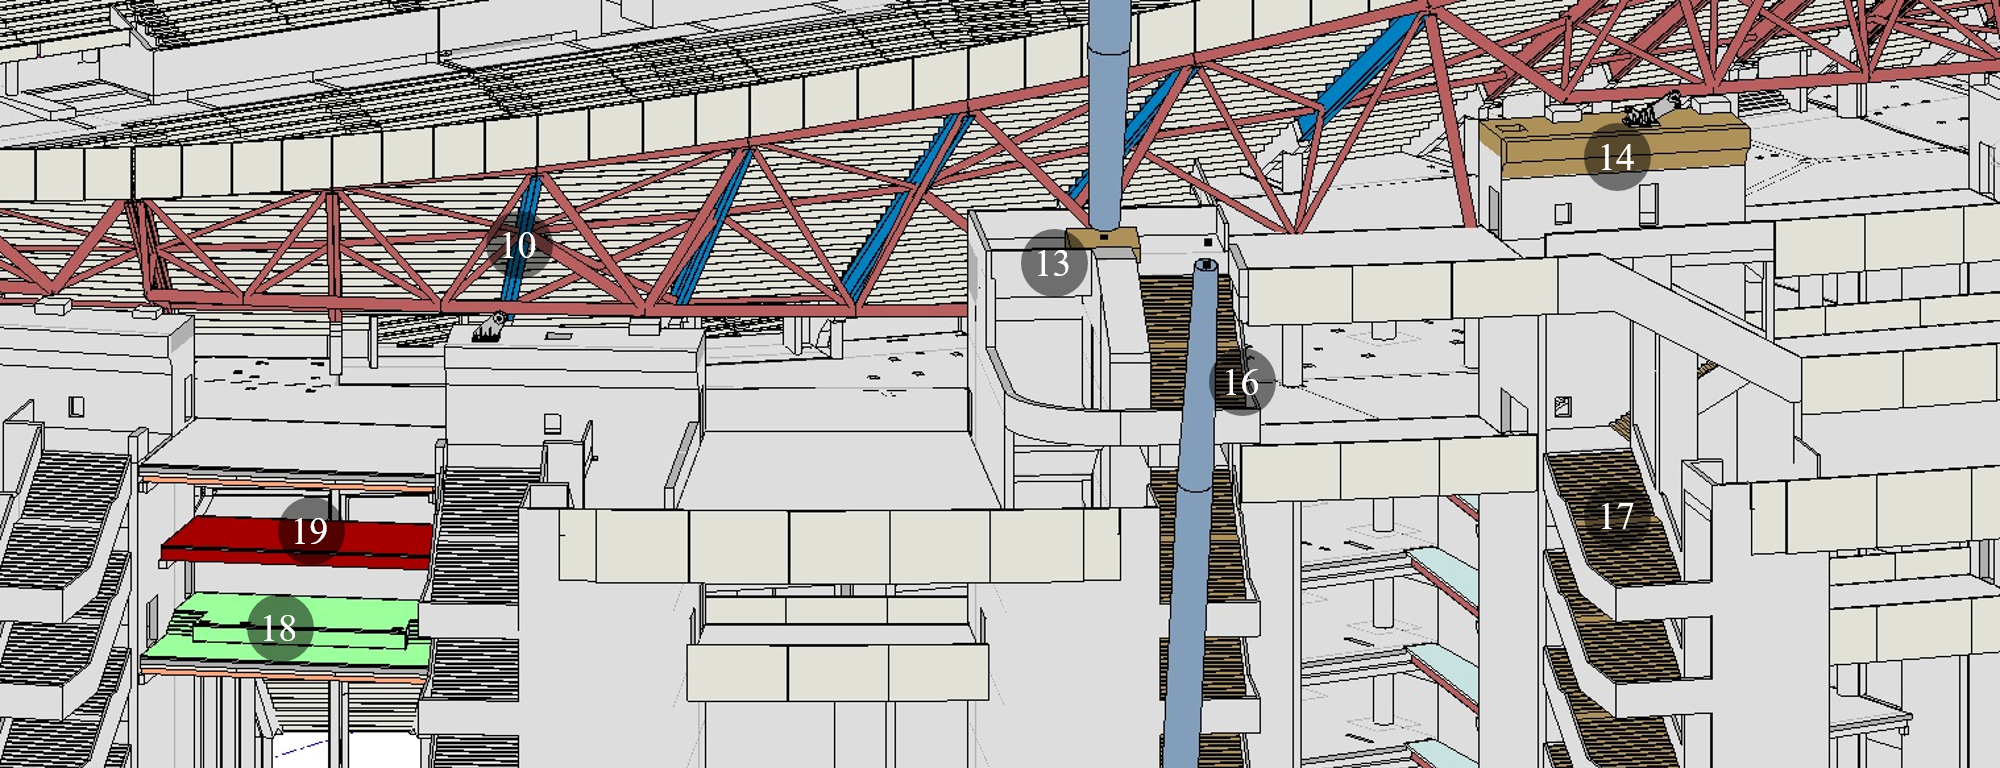
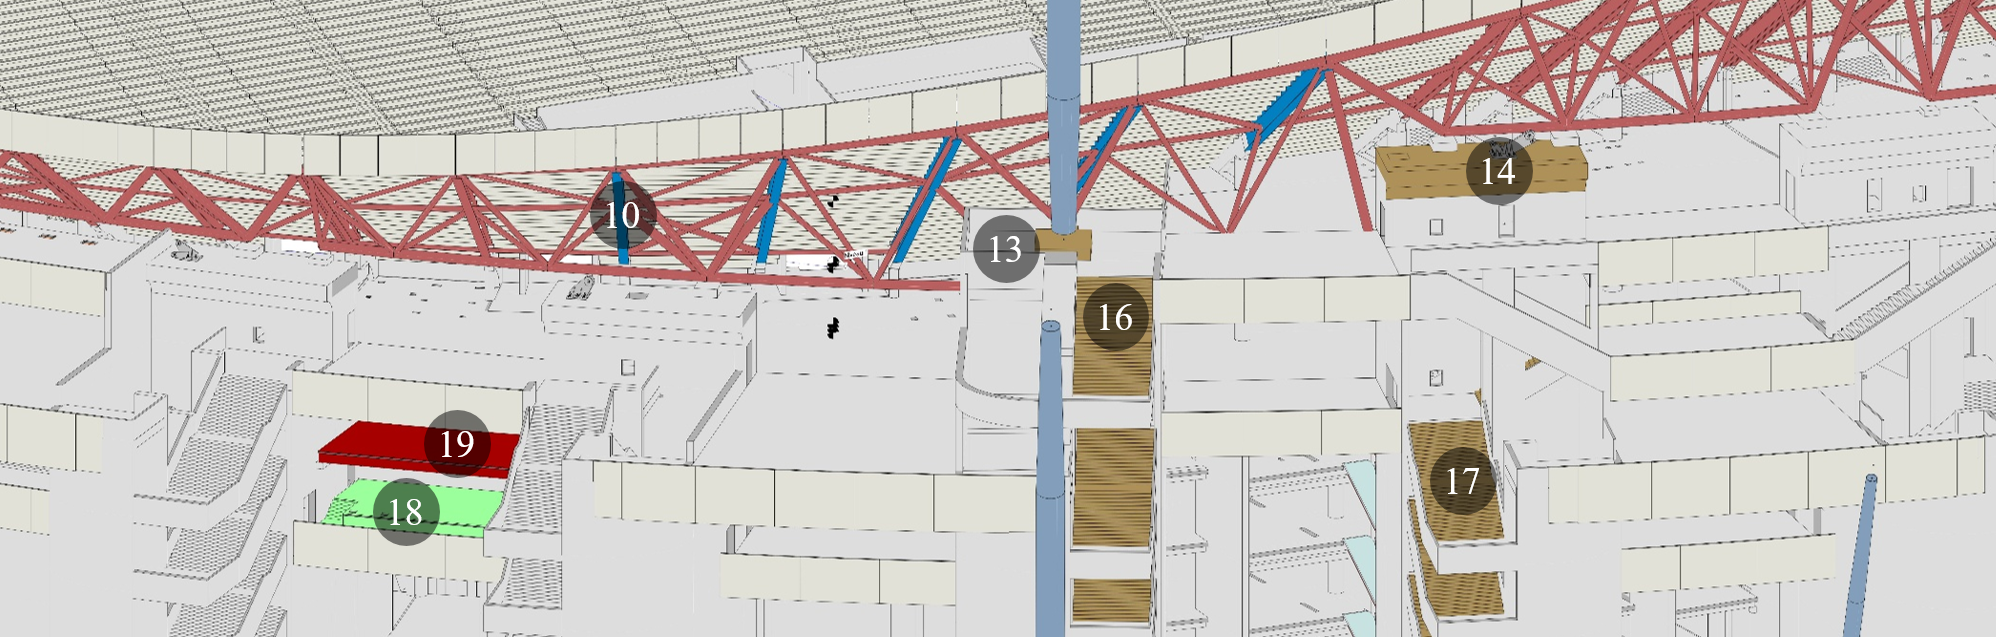
MAJ V2

diff --git a/style/Style.css b/style/Style.css
@@ -138,6 +138,7 @@ body {
     gap: 10px;
 
     align-items: stretch;
+    
 }
 .planning-section,
 .table-section {
@@ -146,6 +147,7 @@ body {
     background: #fff;
     border: 1px solid #e0e3e1;
     padding: 10px;
+    border-radius: 6px;
 }
 
 /* =========================================================
@@ -218,11 +220,14 @@ body {
 
     width: 100%;
 
-    height: 16/9 ;
+    height: 560px ;
 
     overflow: hidden;
 
     background: #e8e9e6;
+    border: 1px solid #dfe2df;
+    border-radius: 6px;
+    box-sizing: border-box;
 }
 
 .model-image {
@@ -820,7 +825,7 @@ body {
     .model-image-wrapper {
 
         height:
-            320px;
+            560px ;
     }
 
     .planning-header {
@@ -905,13 +910,13 @@ body {
 
     .model-image-wrapper {
         width: 100%;
-        height: 250px;
+        height: 100% ;
     }
 
     .model-image {
         width: 100%;
         height: 100%;
-        object-fit: cover;
+        object-fit: contain;
     }
 
 
